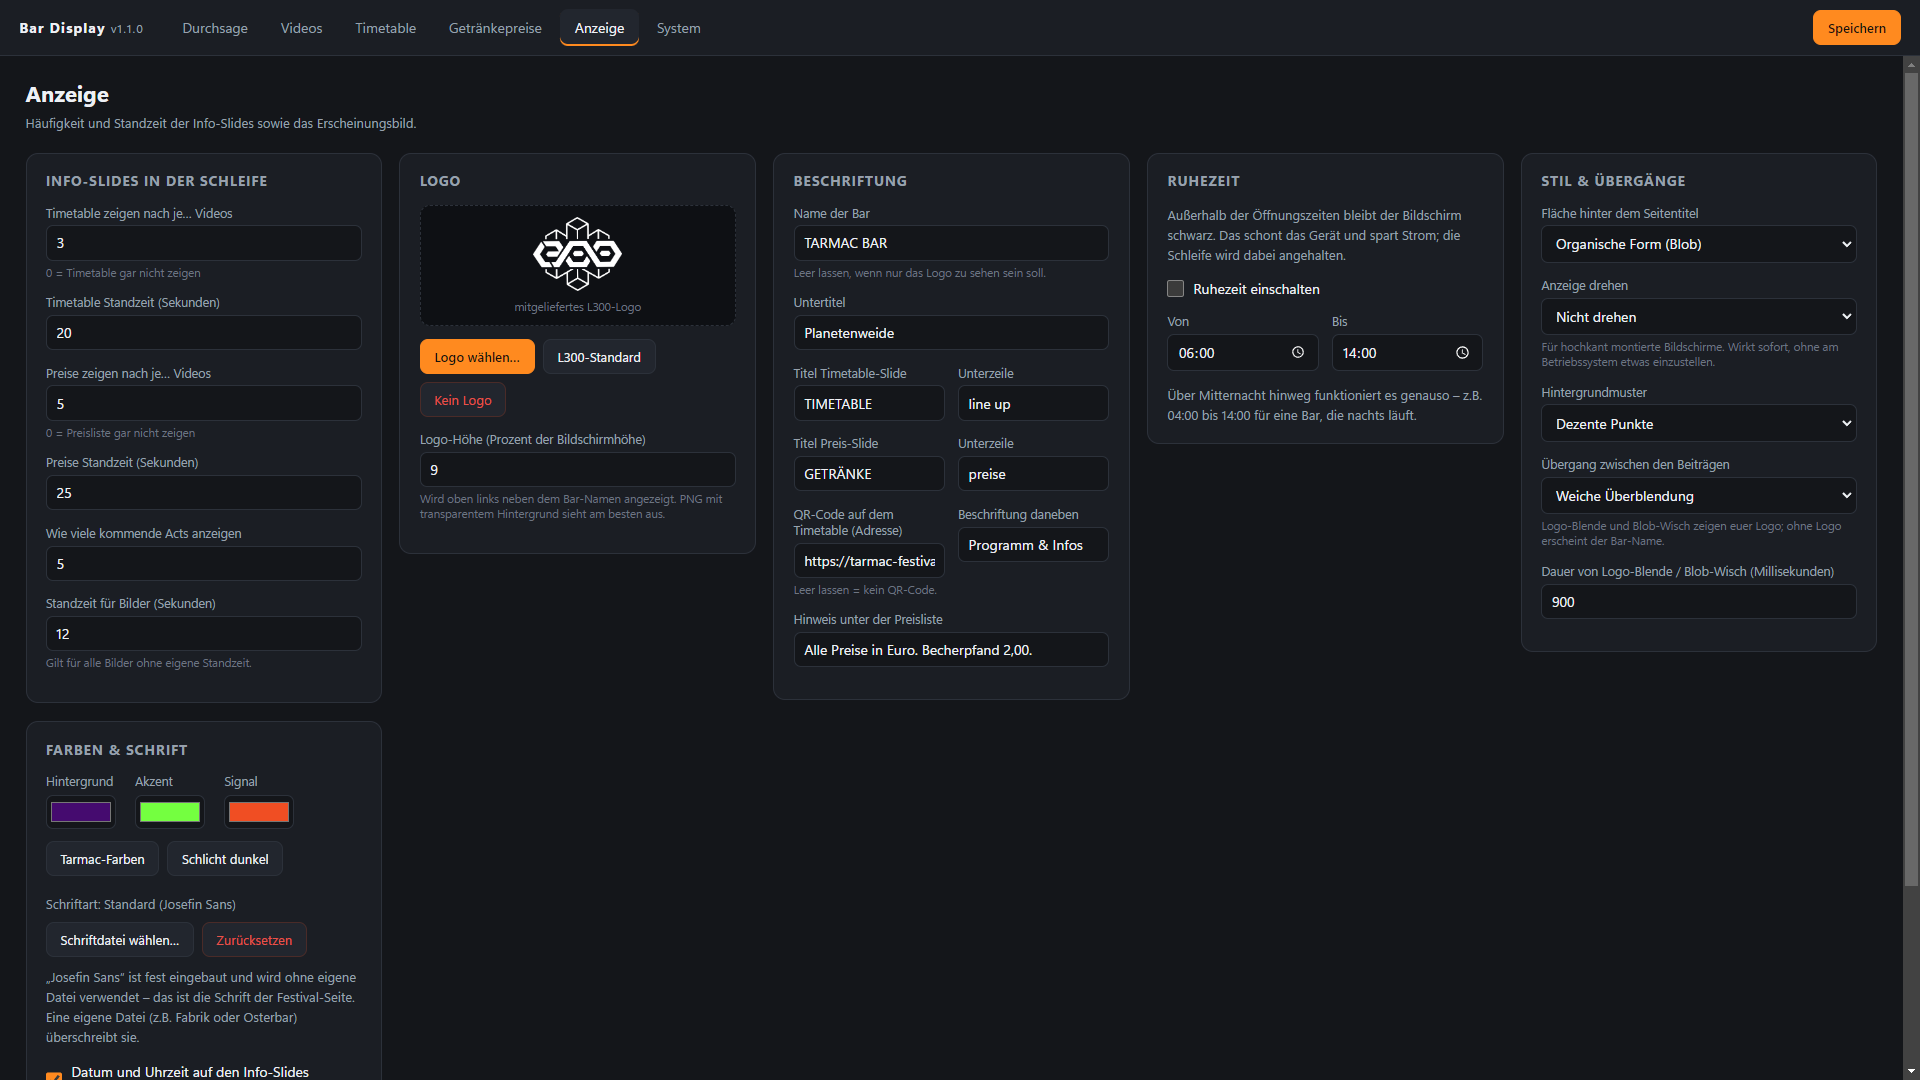
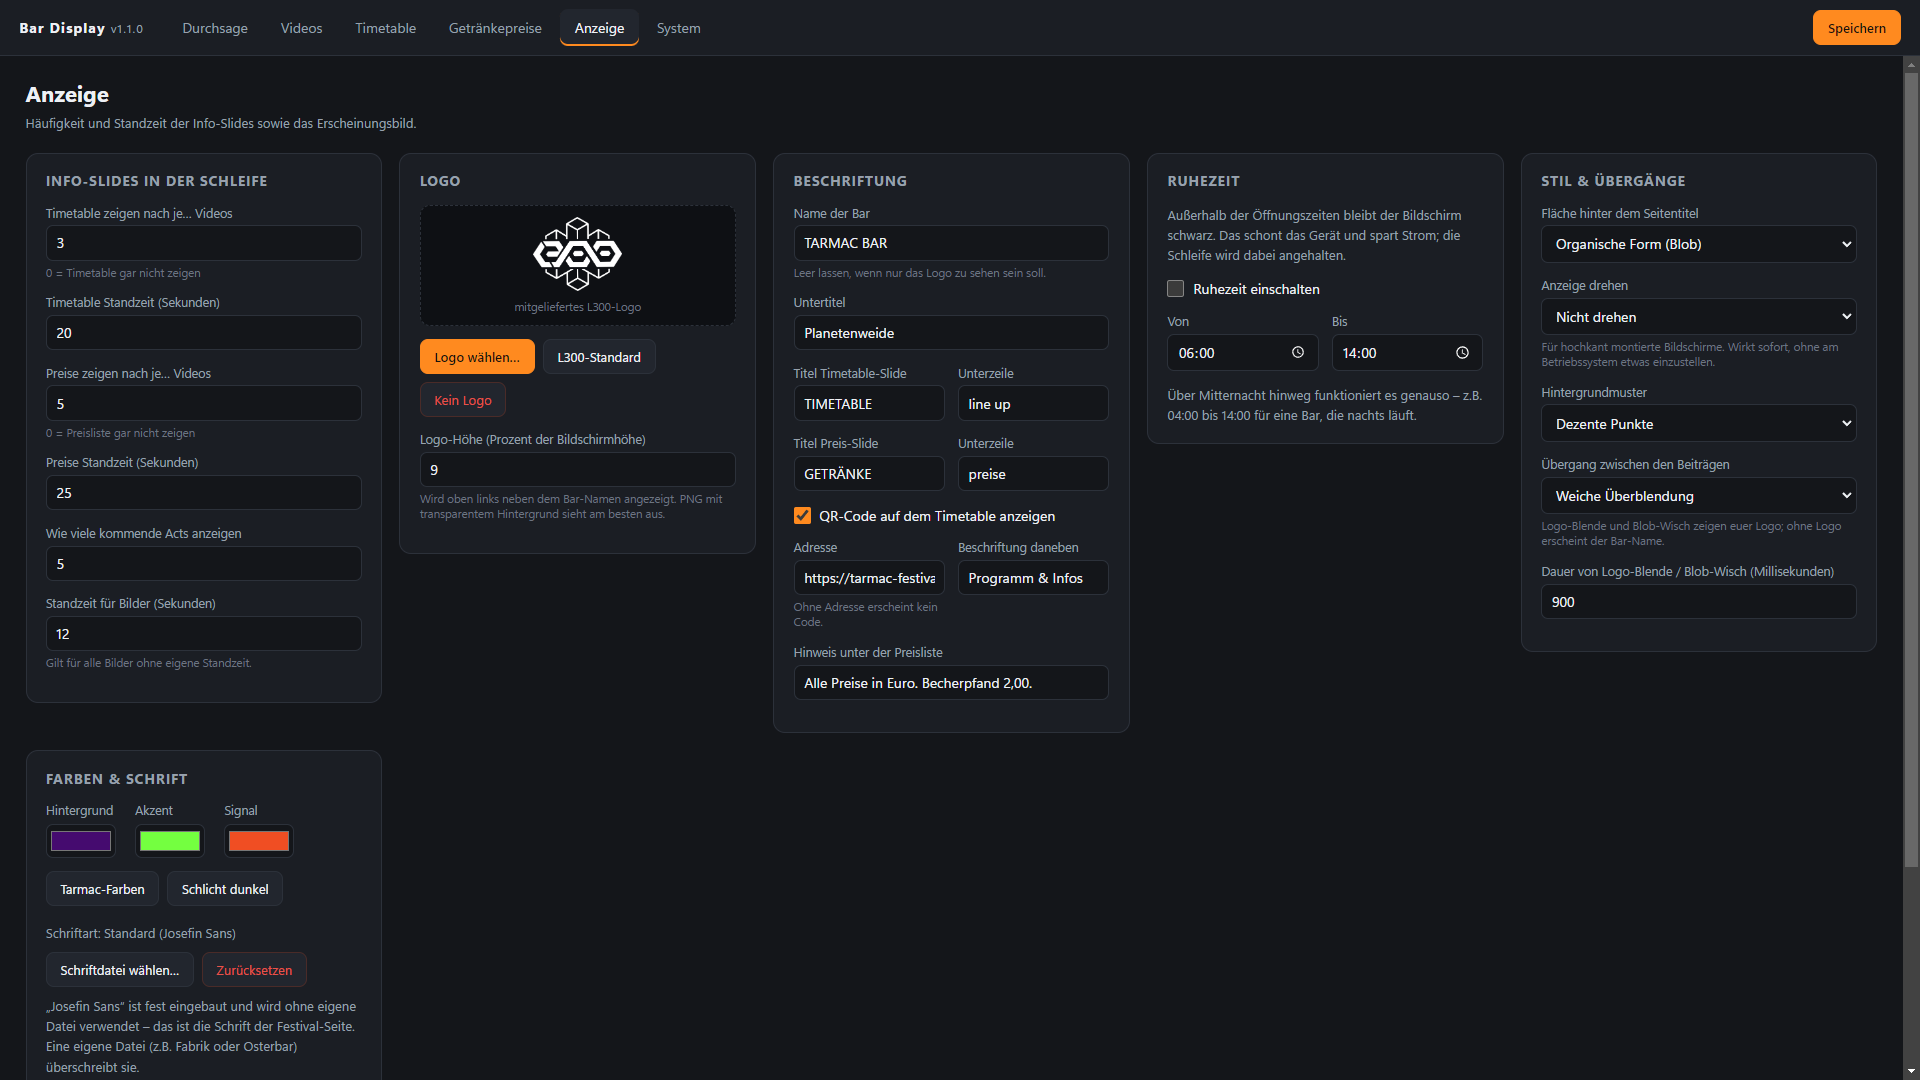
QR-Code laesst sich abschalten, ohne die Adresse zu verlieren
Bisher war der QR-Code nur ueber "Adresse leeren" wegzubekommen - damit war
die Adresse weg. Jetzt gibt es einen eigenen Haken; Adresse und Beschriftung
bleiben gespeichert und werden im Einstellungsfenster nur ausgegraut.

- Neue Einstellung settings.qrEnabled, Standard aus
- Konfigurationsformat auf Version 3, mit Migration: eine bereits eingetragene
  Adresse gilt weiterhin als "an", damit beim Update kein Code stillschweigend
  von der Anzeige verschwindet
- Dieselbe Migration in pi/server.js, der bisher gar keine hatte
- Screenshot und Doku nachgezogen

Changed region(s): [[0.0, 0.6722, 0.1875, 1.0], [0.4062, 0.4583, 0.5625, 0.6417], [0.9688, 0.7944, 1.0, 0.825]]

diff --git a/pi/server.js b/pi/server.js
@@ -58,15 +58,17 @@ const TYPEN = {
 // ---------------------------------------------------------------------------
 // Konfiguration - dasselbe Format wie die Electron-Fassung
 // ---------------------------------------------------------------------------
+const VERSION_KONFIG = 3;
+
 const STANDARD = {
-  version: 2,
+  version: VERSION_KONFIG,
   settings: {
     barName: 'TARMAC BAR', subtitle: 'Planetenweide',
     bgColor: '#450b6f', accent: '#74ff40', accent2: '#f04e23',
     logo: '', logoHeight: 9, fontFile: '',
     titleStyle: 'blob', pattern: 'dots', displayId: '', rotation: 0,
     transition: 'fade', transitionMs: 900,
-    qrUrl: '', qrLabel: 'Programm & Infos',
+    qrEnabled: false, qrUrl: '', qrLabel: 'Programm & Infos',
     timetableTitle: 'TIMETABLE', timetableSubtitle: 'line up',
     pricesTitle: 'GETRÄNKE', pricesSubtitle: 'preise',
     pin: '', timetableEvery: 3, timetableDuration: 20,
@@ -97,9 +99,28 @@ function ordnerAnlegen() {
   }
 }
 
+// Muss dieselben Schritte gehen wie migrate() in main.js, sonst sieht eine
+// Konfiguration je nach Geraet anders aus.
+function migrieren(roh) {
+  if (!roh.version || roh.version < 2) {
+    roh.settings = roh.settings || {};
+    delete roh.settings.accent;
+  }
+  // v3: eigener Schalter fuer den QR-Code. Vorher galt eine eingetragene
+  // Adresse als "an" - das muss so bleiben.
+  if (!roh.version || roh.version < 3) {
+    roh.settings = roh.settings || {};
+    if (roh.settings.qrEnabled === undefined) {
+      roh.settings.qrEnabled = !!(roh.settings.qrUrl || '').trim();
+    }
+  }
+  roh.version = VERSION_KONFIG;
+  return roh;
+}
+
 function konfigLesen() {
   try {
-    const roh = JSON.parse(fs.readFileSync(CONFIG_PATH, 'utf8').replace(/^/, ''));
+    const roh = migrieren(JSON.parse(fs.readFileSync(CONFIG_PATH, 'utf8').replace(/^/, '')));
     return tiefMischen(STANDARD, roh);
   } catch (err) {
     return JSON.parse(JSON.stringify(STANDARD));

diff --git a/main.js b/main.js
@@ -28,7 +28,7 @@ let settingsWin = null;
 // ---------------------------------------------------------------------------
 // Konfiguration
 // ---------------------------------------------------------------------------
-const CONFIG_VERSION = 2;
+const CONFIG_VERSION = 3;
 
 const DEFAULT_CONFIG = {
   version: CONFIG_VERSION,
@@ -47,7 +47,8 @@ const DEFAULT_CONFIG = {
     displayId: '',           // leer = Hauptbildschirm
     transition: 'fade',      // fade | cut | logo | wipe
     transitionMs: 900,
-    qrUrl: '',               // leer = kein QR-Code auf dem Timetable
+    qrEnabled: false,        // QR-Code auf dem Timetable ein-/ausschalten
+    qrUrl: '',               // Adresse; bleibt erhalten, auch wenn abgeschaltet
     qrLabel: 'Programm & Infos',
     timetableTitle: 'TIMETABLE',
     timetableSubtitle: 'line up',
@@ -106,8 +107,17 @@ function migrate(raw) {
   if (!raw.version || raw.version < 2) {
     raw.settings = raw.settings || {};
     delete raw.settings.accent;
-    raw.version = CONFIG_VERSION;
   }
+  // v3: der QR-Code hat einen eigenen Schalter bekommen. Vorher galt eine
+  // eingetragene Adresse als "an" - das muss so bleiben, sonst verschwindet
+  // der Code beim Update stillschweigend von der Anzeige.
+  if (!raw.version || raw.version < 3) {
+    raw.settings = raw.settings || {};
+    if (raw.settings.qrEnabled === undefined) {
+      raw.settings.qrEnabled = !!(raw.settings.qrUrl || '').trim();
+    }
+  }
+  raw.version = CONFIG_VERSION;
   return raw;
 }
 

diff --git a/src/settings.js b/src/settings.js
@@ -434,6 +434,8 @@ function fillSettingsFields() {
   for (const k of NUM_FIELDS) { const el = $('s_' + k); if (el) el.value = s[k] != null ? s[k] : ''; }
   for (const k of TEXT_FIELDS) { const el = $('s_' + k); if (el) el.value = s[k] != null ? s[k] : ''; }
   $('s_showClock').checked = !!s.showClock;
+  $('s_qrEnabled').checked = !!s.qrEnabled;
+  qrFelderAnpassen();
   renderLogoPreview();
   renderFontState();
   fillSpecialFields();
@@ -464,6 +466,21 @@ function fillSettingsFields() {
     $('s_showClock').dataset.wired = '1';
     $('s_showClock').addEventListener('change', (e) => { state.settings.showClock = e.target.checked; markDirty(); });
   }
+  if (!$('s_qrEnabled').dataset.wired) {
+    $('s_qrEnabled').dataset.wired = '1';
+    $('s_qrEnabled').addEventListener('change', (e) => {
+      state.settings.qrEnabled = e.target.checked;
+      qrFelderAnpassen();
+      markDirty();
+    });
+  }
+}
+
+// Adresse und Beschriftung bleiben gespeichert, wenn der Code aus ist -
+// sie werden nur ausgegraut, damit klar ist, dass gerade nichts erscheint.
+function qrFelderAnpassen() {
+  const box = $('qrFelder');
+  if (box) box.classList.toggle('gedimmt', !$('s_qrEnabled').checked);
 }
 
 // ---------------------------------------------------------------------------

diff --git a/src/settings.html b/src/settings.html
@@ -266,11 +266,14 @@
               <input type="text" id="s_pricesSubtitle" maxlength="24">
             </label>
           </div>
-          <div class="twoCol">
+          <label class="checkline">
+            <input type="checkbox" id="s_qrEnabled"> <span>QR-Code auf dem Timetable anzeigen</span>
+          </label>
+          <div class="twoCol" id="qrFelder">
             <label class="field">
-              <span>QR-Code auf dem Timetable (Adresse)</span>
+              <span>Adresse</span>
               <input type="text" id="s_qrUrl" maxlength="200" placeholder="https://tarmac-festival.de">
-              <em>Leer lassen = kein QR-Code.</em>
+              <em>Ohne Adresse erscheint kein Code.</em>
             </label>
             <label class="field">
               <span>Beschriftung daneben</span>

diff --git a/src/settings.css b/src/settings.css
@@ -110,6 +110,8 @@ input[type=color] { padding: 2px; height: 34px; width: 70px; background: var(--b
 .field > em { display: block; font-size: 11.5px; color: #6d7580; font-style: normal; margin-top: 0.25rem; }
 .checkline { display: flex; align-items: center; gap: 0.55rem; margin-bottom: 0.9rem; cursor: pointer; }
 .checkline input { width: 17px; height: 17px; accent-color: var(--accent); }
+/* abhaengige Felder bleiben sichtbar, aber sichtbar abgeschaltet */
+.gedimmt { opacity: 0.45; pointer-events: none; }
 
 .cards { display: grid; grid-template-columns: repeat(auto-fit, minmax(340px, 1fr)); gap: 1.1rem; align-items: start; }
 .card { background: var(--bg2); border: 1px solid var(--line); border-radius: 12px; padding: 1.1rem 1.2rem; }

diff --git a/src/player.js b/src/player.js
@@ -510,7 +510,7 @@ function footHtml(mitQr) {
 function qrHtml() {
   const s = cfg.settings;
   const url = (s.qrUrl || '').trim();
-  if (!url || typeof qrcode !== 'function') return '';
+  if (!s.qrEnabled || !url || typeof qrcode !== 'function') return '';
   try {
     // Ohne diese Zeile schneidet die Bibliothek jedes Zeichen auf ein Byte ab -
     // Umlaute und alles ausserhalb von Latin-1 werden dadurch unlesbar.

diff --git a/README.md b/README.md
@@ -51,7 +51,8 @@ Getränkepreise im Festival-Design.
   sich auf Wunsch nach 5 bis 60 Minuten von allein wieder aus.
 - **Ruhezeit** — außerhalb der Öffnungszeiten bleibt der Bildschirm schwarz und
   die Schleife steht still. Schont das Gerät und spart Strom.
-- **QR-Code** auf dem Timetable, der auf eure Festivalseite zeigt.
+- **QR-Code** auf dem Timetable, der auf eure Festivalseite zeigt – abschaltbar,
+  ohne dass die Adresse verloren geht.
 
 ---
 
@@ -190,10 +191,15 @@ blendet sich auf Wunsch nach 5 bis 60 Minuten von allein wieder aus.
 
 ### QR-Code
 
-Ist unter *Anzeige → Beschriftung* eine Adresse hinterlegt, steht unten links auf
-dem Timetable ein QR-Code mit Beschriftung — z. B. auf die Festivalseite oder auf
-das ausführliche Line-up. Umlaute in der Adresse sind kein Problem.
-Ohne Adresse erscheint kein Code.
+Unten links auf dem Timetable kann ein QR-Code mit Beschriftung stehen — z. B. auf
+die Festivalseite oder auf das ausführliche Line-up. Umlaute in der Adresse sind kein
+Problem.
+
+Der Code ist **optional**: unter *Anzeige → Beschriftung* gibt es den Haken
+**QR-Code auf dem Timetable anzeigen**. Ohne Haken bleibt der Timetable frei, Adresse
+und Beschriftung bleiben aber gespeichert — praktisch, wenn eine Bar den Code haben
+will und die nächste nicht, oder wenn er nur an einzelnen Tagen erscheinen soll.
+Ohne Adresse erscheint ebenfalls kein Code.
 
 ### Ruhezeit
 
@@ -321,8 +327,9 @@ sonst passt.
   Mitternacht hinweg funktioniert es wie bei den Clips, also auch 04:00 bis 14:00
   für eine Bar, die nachts läuft. Unbrauchbare Zeiten schalten die Ruhezeit ab,
   statt den Bildschirm dauerhaft schwarz zu lassen.
-- **QR-Code**: Adresse eintragen, dann erscheint unten links auf dem Timetable
-  ein Code mit Beschriftung. Leer lassen = kein Code.
+- **QR-Code**: Haken setzen, Adresse und Beschriftung eintragen — dann erscheint
+  unten links auf dem Timetable ein Code. Ohne Haken bleiben die Felder ausgegraut
+  und gespeichert, es erscheint aber nichts.
 
 ### System
 
@@ -485,7 +492,7 @@ Der Autostart wird unter Windows im Anmelde-Autostart eingetragen, unter Linux a
 | Bildschirm schwarz, Maus zeigt einen Hinweis | Ruhezeit ist aktiv – *Anzeige → Ruhezeit* |
 | Durchsage hängt fest | *Durchsage → Ausblenden*, oder eine Ausblendzeit setzen |
 | Anzeige steht auf dem Kopf oder quer | *Anzeige → Anzeige drehen* auf „Nicht drehen" |
-| QR-Code fehlt auf dem Timetable | *Anzeige → Beschriftung*, Adresse eintragen |
+| QR-Code fehlt auf dem Timetable | *Anzeige → Beschriftung*: Haken setzen und Adresse eintragen |
 | macOS: „unbekannter Entwickler" oder „beschädigt" | Rechtsklick → Öffnen, siehe Abschnitt macOS. Das Programm ist unsigniert, nicht kaputt |
 | Linux: Programm startet nicht | Ausführbar-Bit fehlt – `chmod +x` auf die AppImage bzw. auf `bar-display` und `resources/ffmpeg/ffmpeg` |
 | Linux: Umwandlung nicht verfügbar | Sollte nicht vorkommen, ffmpeg liegt bei. Notfalls `sudo apt install ffmpeg` – das Programm nimmt auch ein systemweit installiertes |
